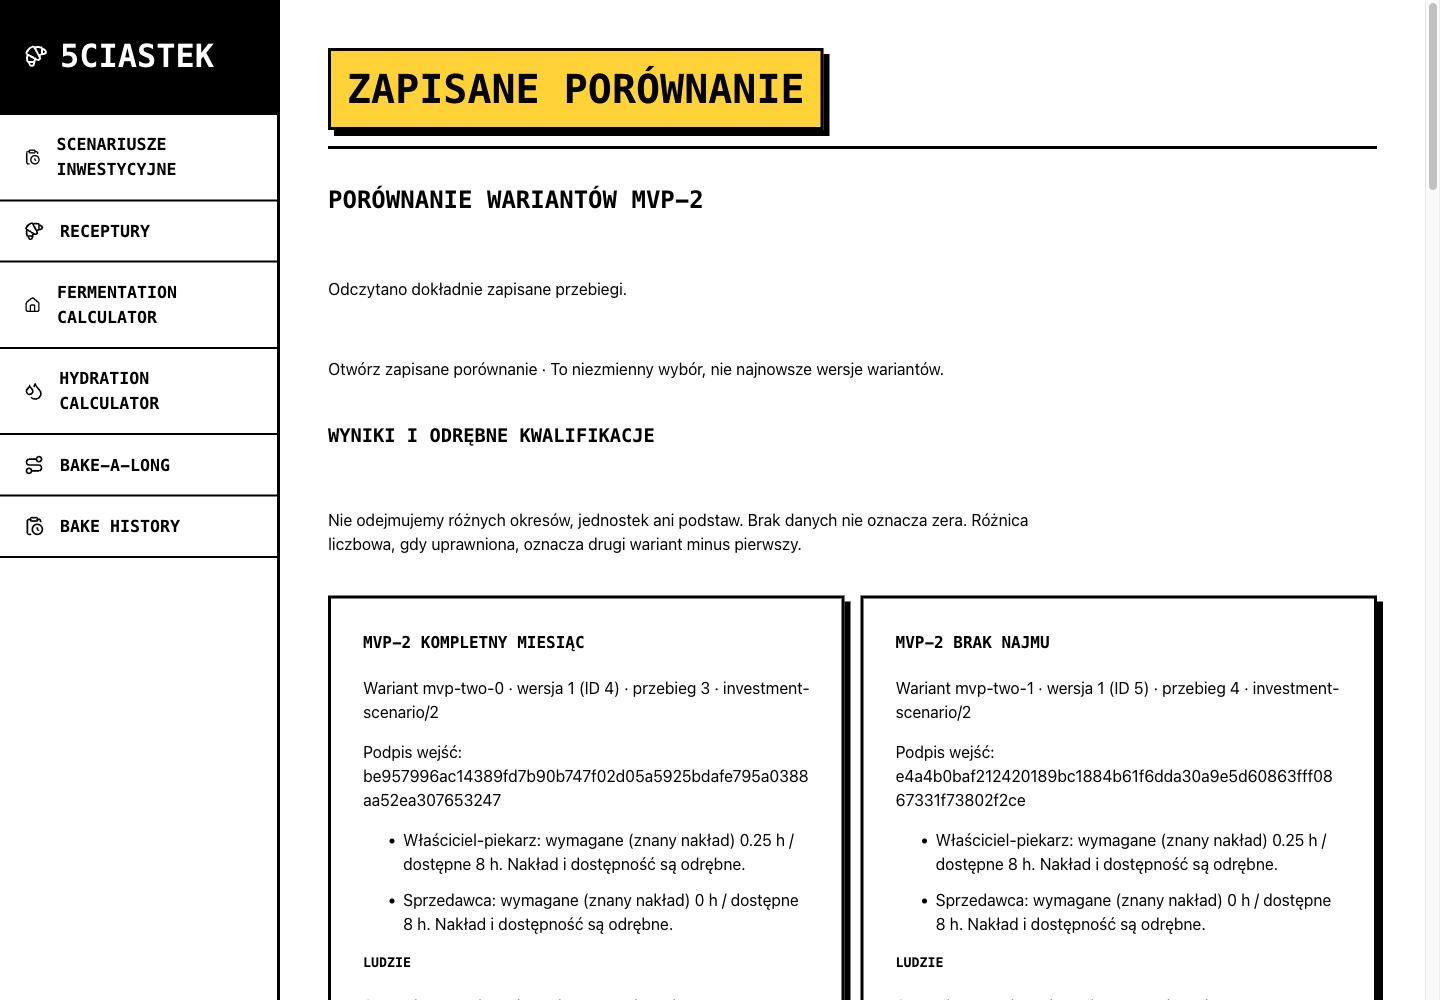
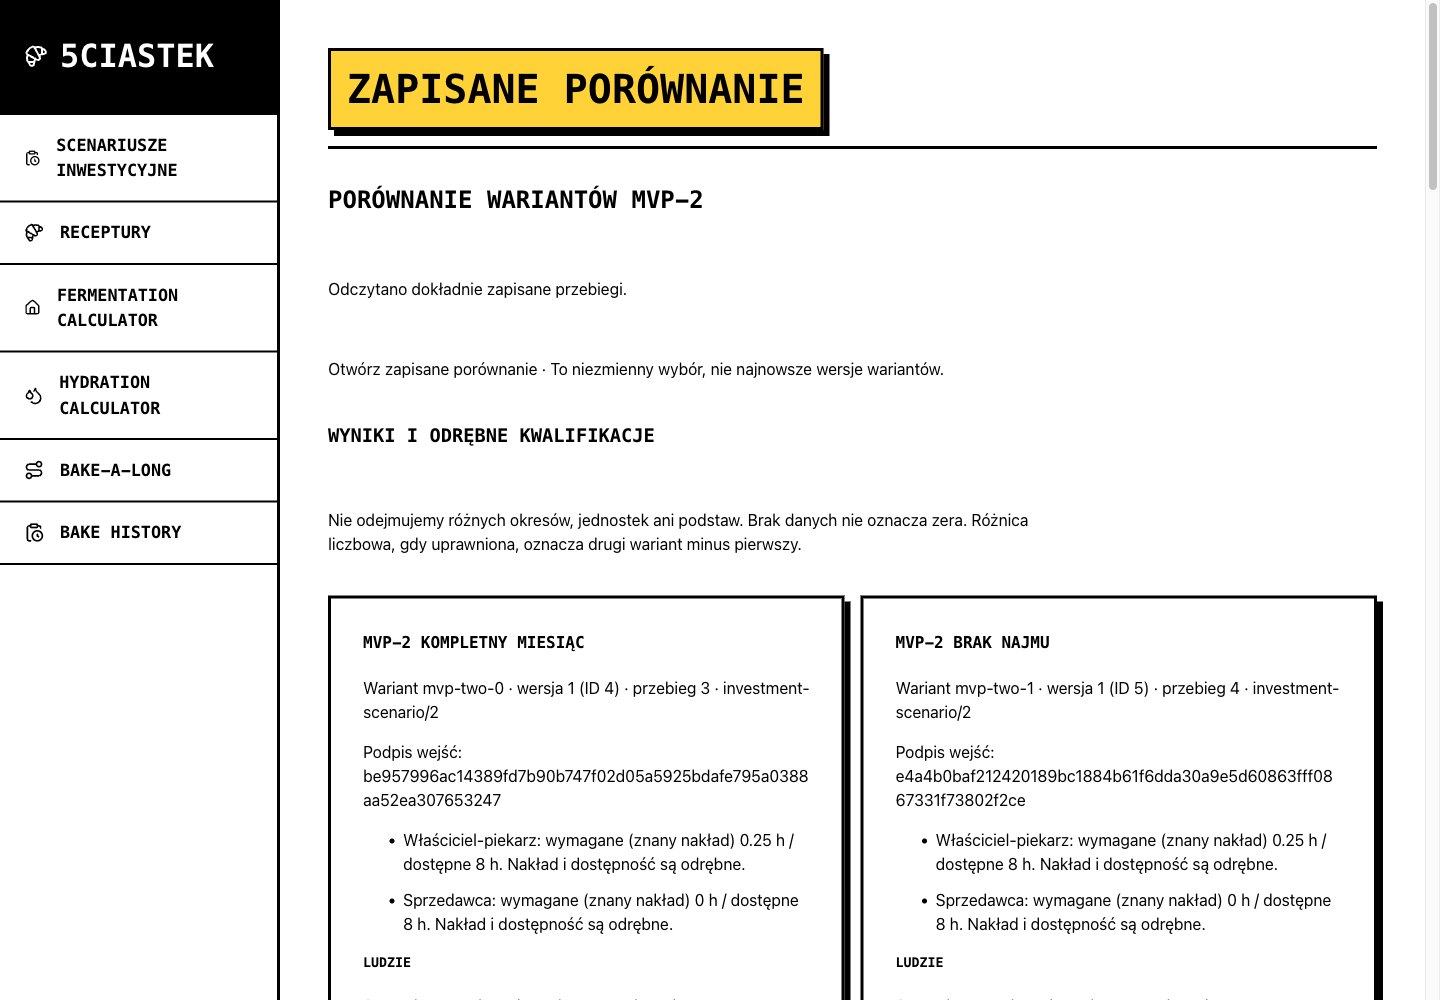
fix(investment): open editable variants from comparison report links

Changed region(s): [[0.0, 0.124, 0.1875, 0.558]]

diff --git a/src/features/investment-scenarios/components/ScenarioReport.tsx b/src/features/investment-scenarios/components/ScenarioReport.tsx
@@ -6,7 +6,7 @@ type Report = z.infer<typeof versionedRunBodySchema>['output'];
 type SavedInput = z.infer<typeof versionedSavedInputSchema>;
 
 const domains = { people: 'Ludzie', machines: 'Urządzenia', technology: 'Technologia', materials: 'Materiały', finance: 'Finanse' };
-export function ScenarioReport({ report, revisionNumber, runId, changed, unsaved, input }: { report: Report; revisionNumber: number; runId: number; changed: boolean; unsaved: boolean; input: SavedInput }) {
+export function ScenarioReport({ report, revisionNumber, runId, changed, unsaved, input, inputHref = '#scenario-inputs' }: { report: Report; revisionNumber: number; runId: number; changed: boolean; unsaved: boolean; input: SavedInput; inputHref?: string }) {
   const finance = report.economics;
   const resourceName = (id: string) => input.input.resources.find(resource => resource.id === id)?.name ?? id;
   const operationName = (id: string) => input.input.operations.find(operation => operation.id === id)?.name ?? id;
@@ -33,7 +33,7 @@ export function ScenarioReport({ report, revisionNumber, runId, changed, unsaved
     <p>Wartość ekonomiczna pracy właściciela: {finance.ownerEconomicValue ?? 'brak danych'} PLN (ujawnienie, bez ponownego potrącenia). Rzeczywisty czas i koszt zatrudnienia: nie dotyczy / brak danych.</p>
     <ul><li>Wkład / sprzedaną sztukę: {finance.contributionPerPiece ?? 'brak dodatniego mianownika'} PLN</li><li>Wkład / partię: {finance.contributionPerBatch ?? 'brak danych'} PLN</li><li>Wkład / osobogodzinę: {finance.contributionPerPersonHour ?? 'brak dodatniego mianownika'} PLN</li><li>Wkład / minutę wąskiego gardła: {finance.contributionPerBottleneckMinute ?? 'brak dodatniego mianownika'} PLN</li></ul>
     <h3>Warunkowo wymagana sprzedaż</h3><p>{finance.requiredSales.reason}</p><ul>{Object.entries(finance.comparison).map(([product, row]) => <li key={product}>{product}: wymagane {row.required} szt.; gotowe w terminie {row.ready ?? 'niezweryfikowane'}; deficyt {row.deficit ?? 'niezweryfikowany'} szt.</li>)}</ul><p>Wymagany przychód: {finance.requiredSales.revenue ?? 'brak danych'} PLN. To nie jest prognoza popytu ani potwierdzenie powtarzalnego miesiąca.</p>
-    <h3>Odrębne ograniczenia i podstawy decyzji</h3>{Object.entries(domains).map(([domain, title]) => <section key={domain}><h4>{title}</h4>{qualifications.some(reason => reason.domain === domain) ? <ul>{qualifications.filter(reason => reason.domain === domain).map((reason, index) => <li key={`${reason.identity}-${index}`}><a href="#scenario-inputs">{reason.identity}</a>: {reason.reason}</li>)}</ul> : <p>Sprawdzono podane ograniczenia w zakresie jawnych wejść.</p>}</section>)}
+    <h3>Odrębne ograniczenia i podstawy decyzji</h3>{Object.entries(domains).map(([domain, title]) => <section key={domain}><h4>{title}</h4>{qualifications.some(reason => reason.domain === domain) ? <ul>{qualifications.filter(reason => reason.domain === domain).map((reason, index) => <li key={`${reason.identity}-${index}`}><a href={inputHref}>{reason.identity}</a>: {reason.reason}</li>)}</ul> : <p>Sprawdzono podane ograniczenia w zakresie jawnych wejść.</p>}</section>)}
     {report.engineVersion === 'investment-scenario/2' && report.monthly && <section aria-label="Ocena miesiąca"><h3>Miesiąc {report.monthly.period}</h3><p>Daty produkcji: {report.monthly.productionDays}; daty sprzedaży: {report.monthly.salesDays}. Każdy wynik ma własną podstawę.</p>
       <dl className={styles.totals}>{(['repeatability', 'revenue', 'variableCost', 'contribution', 'fixedCost', 'operating', 'ownerNet', 'recurringCash', 'ownerEconomicValue'] as const).map(key => { const row = report.monthly![key]; return <div key={key}><dt>{row.basis}</dt><dd>{row.status === 'qualified' ? key === 'repeatability' ? 'Zweryfikowano podane warunki' : `${row.value} ${row.unit}` : 'Niezweryfikowane'}</dd>{row.reasons.length > 0 && <ul>{row.reasons.map(reason => <li key={reason}>{reason}</li>)}</ul>}</div>; })}</dl>
       <h4>Granica miesiąca</h4><ul>{report.monthly.boundaryStock.map(row => <li key={`${row.itemId}:${row.unit}`}>{row.itemId}: {row.opening} → {row.closing} {unitName(row.unit)}; źródła: {row.sourceParts.join(', ')}</li>)}</ul>
@@ -44,7 +44,7 @@ export function ScenarioReport({ report, revisionNumber, runId, changed, unsaved
       <ul>{(Object.keys(investmentCategoryLabels) as (keyof typeof investmentCategoryLabels)[]).map(key => { const row = report.investment!.categories[key]; return <li key={key}><strong>{investmentCategoryLabels[key]}</strong>: {row.status === 'missing' ? `Brak danych — ${row.reason}` : `${row.value} PLN · ${row.status === 'estimated' ? 'estymacja' : 'pomiar'} · źródło: ${row.source} · ${row.date} · wersja ${row.version} · okres ${row.period} · ${row.context}`}</li>; })}</ul>
       <dl className={styles.totals}><div><dt>Nakład początkowy razem</dt><dd>{report.investment.outlay.value === null ? 'Niezweryfikowany' : `${report.investment.outlay.value} PLN`}</dd></div><div><dt>Prosty zwrot</dt><dd>{report.investment.payback.status === 'calculated' ? `${report.investment.payback.months} miesięcy` : report.investment.payback.status === 'no-finite-payback' ? 'Brak skończonego zwrotu' : 'Zwrot niezweryfikowany'}</dd></div></dl>
       <p>{report.investment.basis}. Okres miesięcznej podstawy: {report.investment.period ?? 'brak'}. Nadwyżka: {report.investment.recurringCash?.value ?? 'niezweryfikowana'} PLN/miesiąc. Powtarzalność: {report.investment.repeatability?.status === 'qualified' ? 'zakwalifikowana' : 'niezweryfikowana'}.</p>
-      <ul>{report.investment.payback.reasons.map(reason => <li key={reason}><a href="#scenario-inputs">Uzupełnij podstawę</a>: {reason}</li>)}</ul>
+      <ul>{report.investment.payback.reasons.map(reason => <li key={reason}><a href={inputHref}>Uzupełnij podstawę</a>: {reason}</li>)}</ul>
       <p>Zapas początkowy i kaucja są nakładem, nie drugim automatycznym potrąceniem miesięcznym. Zwrot zakłada powtarzanie podanych warunków; nie uwzględnia sezonowości ani rozruchu i nie obiecuje przyszłego popytu.</p>
     </section>}
     <details><summary>Użyte publikacje i zapotrzebowanie recepturowe</summary>{report.recipeRequirements.map((row, index) => <section key={`${row.productId}:${index}`}><h4>{row.productId} · {row.versionKey}</h4><ul>{row.scaled.ingredients.map(ingredient => <li key={ingredient.ingredientId}>{ingredient.name}: {ingredient.grams} g</li>)}</ul></section>)}</details>

diff --git a/src/features/investment-scenarios/components/ScenarioComparison.tsx b/src/features/investment-scenarios/components/ScenarioComparison.tsx
@@ -114,7 +114,7 @@ function ComparisonProjection({ runs }: { runs: PinnedRun[] }) {
     <dl className={styles.totals}>{projection.metrics.map(row => <div key={row.id}><dt>{row.label}</dt><dd>{row.values.map((value, index) => <p key={index}>{runs[index].scenarioKey}: {value.value ?? 'brak danych'} {value.unit} · {value.period} · {value.basis} · {value.qualified ? 'wartość wyznaczona' : 'niezweryfikowane'}</p>)}{row.comparable ? row.delta !== null ? `Różnica: ${row.delta} ${row.values[0].unit}` : 'Wspólna podstawa; wartości pokazano osobno.' : 'Nieporównywalne liczbowo — różna podstawa lub brak kwalifikacji.'}</dd></div>)}</dl>
     <h3>Różnice wejść i źródeł</h3>{!projection.differences.length && <p>Brak różnic w zapisanych wejściach i źródłach.</p>}
     <ul className={styles.differences}>{projection.differences.map(row => <li key={row.path}><strong>{changes[row.kind]} · {row.path.split('.').map(part => pathLabels[part.replace(/\[.*\]/, '')] ?? part).join(' / ')}</strong><code className={styles.fingerprint}>{row.path}</code><dl>{row.values.map((value, index) => <div key={index}><dt>{runs[index].scenarioKey}</dt><dd className={styles.snapshot}>{evidenceText(value)}</dd></div>)}</dl></li>)}</ul>
-    {runs.map(run => <details key={run.runId}><summary>Pełny zapisany raport: {run.scenarioKey} · przebieg {run.runId}</summary><ScenarioReport report={run.body.output} input={run.body.input} revisionNumber={run.revisionNumber} runId={run.runId} changed={false} unsaved={false} /></details>)}
+    {runs.map(run => <details key={run.runId}><summary>Pełny zapisany raport: {run.scenarioKey} · przebieg {run.runId}</summary><ScenarioReport report={run.body.output} input={run.body.input} revisionNumber={run.revisionNumber} runId={run.runId} changed={false} unsaved={false} inputHref={`/investment-scenarios/${encodeURIComponent(run.scenarioKey)}`} /></details>)}
   </>;
 }
 function ComparisonQualifications({ run }: { run: PinnedRun }) {

diff --git a/src/features/investment-scenarios/components/ScenarioComparison.test.tsx b/src/features/investment-scenarios/components/ScenarioComparison.test.tsx
@@ -1,5 +1,5 @@
 // @vitest-environment jsdom
-import { act, cleanup, fireEvent, render, screen, waitFor } from '@testing-library/react';
+import { act, cleanup, fireEvent, render, screen, waitFor, within } from '@testing-library/react';
 import { afterEach, beforeEach, expect, it, vi } from 'vitest';
 import { ScenarioComparison } from './ScenarioComparison';
 import ScenarioWorkspace from './ScenarioWorkspace';
@@ -21,6 +21,16 @@ beforeEach(() => {
   actions.prepare.mockImplementation(async ({ revisionId }) => ({ ok: true, run: run(revisionId) }));
 });
 afterEach(() => { cleanup(); vi.unstubAllGlobals(); });
+it('links missing input reasons in pinned reports to the corresponding editable variant', async () => {
+  actions.load.mockResolvedValue({ ok: true, comparison: { comparisonKey: 'pinned', runs: [run(1), run(2)] } });
+  render(<ScenarioComparison comparisonKey="pinned" />);
+  await screen.findByText('Odczytano dokładnie zapisane przebiegi.');
+  fireEvent.click(screen.getByText('Pełny zapisany raport: variant-1 · przebieg 1'));
+  const links = within(screen.getAllByRole('article', { hidden: true })[0]).getAllByRole('link', { name: 'Uzupełnij podstawę' });
+  expect(links.length).toBeGreaterThan(0);
+  expect(links.every(link => link.getAttribute('href') === '/investment-scenarios/variant-1')).toBe(true);
+  expect(document.querySelector('a[href="#scenario-inputs"]')).toBeNull();
+});
 it('recomputes two distinct saved revisions before selection and retries an unconfirmed save unchanged', async () => {
   actions.save.mockRejectedValueOnce(new Error('lost confirmation')).mockResolvedValueOnce({ ok: true, comparisonKey: 'saved-pair' });
   render(<ScenarioComparison revisionId={1} />);

diff --git a/docs/verification/mvp-two.md b/docs/verification/mvp-two.md
@@ -109,3 +109,35 @@ Playwright/Chromium drove the optimized app at `127.0.0.1:3198` against the smok
 | 200% CSS zoom at desktop | Document width 1440, retained text/reflow; [image](mvp-two-zoom.png) |
 
 Reduced motion was active for this matrix. This is CSS zoom, not a claim of native-menu zoom or an exhaustive accessibility audit. Domain tests exercise queue-window equality/violation/missing bounds, exact stock/carry conservation, and outside-week replenishment; not every numeric boundary was manually re-entered in the browser. Deferred-response logout/error lifecycle is covered by component tests; a real network interruption/logout race was not injected in this browser pass. Final LFG review, browser gate, PR/CI and actual-data approvals remain separate receipts.
+
+## Final review and browser gate — 2026-11-27
+
+Reviewed source: `c5f99f5` plus the behavior-preserving simplification; corrected domain checkpoint **`a8c5e09`**. The final UI link correction and this evidence update are the subsequent shipping delta. Review run `mvp-two-bounded-20261127` retained five concrete findings. A fresh independent validator reproduced all five before correction and verified their fixes afterwards:
+
+1. Monthly physical movements now preserve waste/loss and source-lot identity: 100 produced, 50 sold and 50 wasted cannot support another sale; revenue is 1000 PLN, not 2000.
+2. All mapped production/preparation reservations enter the combined resource-capacity sweep, including equipment and roles absent from preparation definitions. Adjacent full-capacity 48-hour profiles remain unverified; non-overlapping profiles can qualify.
+3. Preparation validation rejects fractional staffing/capacity, unknown resources, demand segments outside the operation, inconsistent units/measurement context, overlapping availability and dependency cycles. Required reservations also must finish by the declared replenishment readiness.
+4. Fixed opening-WIP failures are attributed to people, machines or both by failed resource; historical timestamps and clipped labor exposure remain unchanged.
+5. A time-based pool without an established profile allocation remains unverified instead of receiving a produced-piece ratio. No allocation API or inferred labor basis was introduced.
+
+New tests were observed failing before each correction. The independent follow-up ran 39 affected tests and reported all five resolved, with no unapplied review residuals. Review coverage was source-led; no different-family CLI was available. The fresh validator was a separate agent context, not a claim of cross-model independence. Security inspection confirmed the refined v2 schema remains enforced at server save and run boundaries without changing owner permissions.
+
+Final commands under Node **24.22.3** passed: lint, typecheck, **188 unit tests in 26 files**, five integration tests, production build, recipe production smoke, expanded scenario/comparison production smoke, and security/audit (zero vulnerabilities). The five-test integration, recipe smoke and security pass followed the domain review corrections; the final UI-only link change then passed 23 focused component tests, lint/typecheck, all 188 unit tests, a new production build and scenario HTTP smoke. Logs remain in `mvp-two-final/` above.
+
+The UI finish review found a dead corrective anchor inside read-only comparison reports. Links now open the corresponding editable variant; a component regression was observed failing before the fix and passed afterwards. The actual rebuilt browser followed the incomplete variant's “Uzupełnij podstawę” link into its workspace and logged out successfully. The UI mechanical detector returned an empty findings array.
+
+### Pipeline browser result: PASS
+
+Driver: harness-exposed Playwright browser surface. Server: smoke-owned built application at `127.0.0.1:3198`, free port checked before launch. Final domain source `a8c5e09`; the corrective-link check used its rebuilt UI delta.
+
+| Affected route | Result | Observed behavior |
+|---|---|---|
+| `/` | PASS | Root served and rendered |
+| `/recipes` | PASS | Real synthetic owner login and publication catalog |
+| `/investment-scenarios` | PASS | Weekly creation/save/run/reopen from the integrated pass; empty/new workspace and comparison selection |
+| `/investment-scenarios/[scenarioKey]` | PASS | Historical v1/v2 readback, clone/save, keyboard Enter run, editable calendar/stale report, qualified month/outlay and source reasons |
+| `/investment-scenarios/comparisons/[comparisonKey]` | PASS | Real recomputation of two saved revisions, immutable save/reopen, 60-month vs incomplete variant, corrective navigation and protected-data clearing on logout |
+
+Final 390/768/1440 widths and 200% CSS zoom again matched document widths with no horizontal page overflow; screenshots above were refreshed. Reduced motion preserved all information. Keyboard Tab produced a visible focus indicator; keyboard Enter executed the run. No application page errors/new flow-attributable console errors were observed; an expired token from the prior disposable database produced the expected initial unauthorized request before fresh login. No external human verification was needed. No route was skipped. Browser harnesses were terminated after checks and their temporary databases removed; no watch process is left holding this session open.
+
+No remaining review finding is accepted as deferred debt. Hosted PR/CI results belong to the shipping record, and actual-account/data release remains the repository/service owner's decision under P0.
